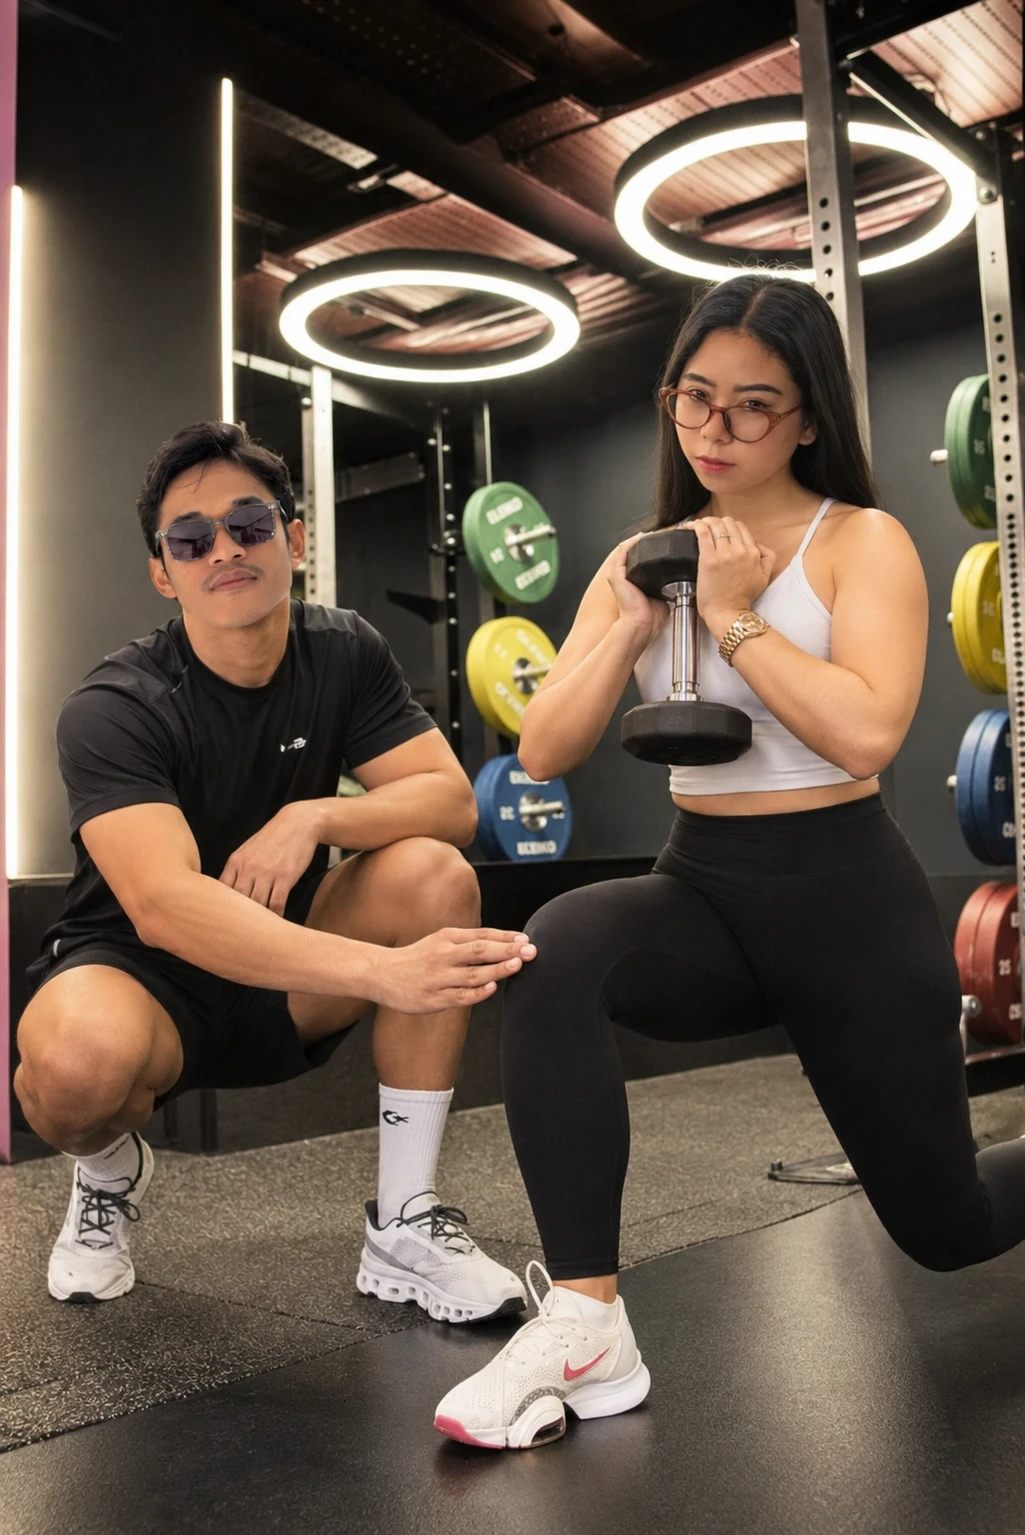
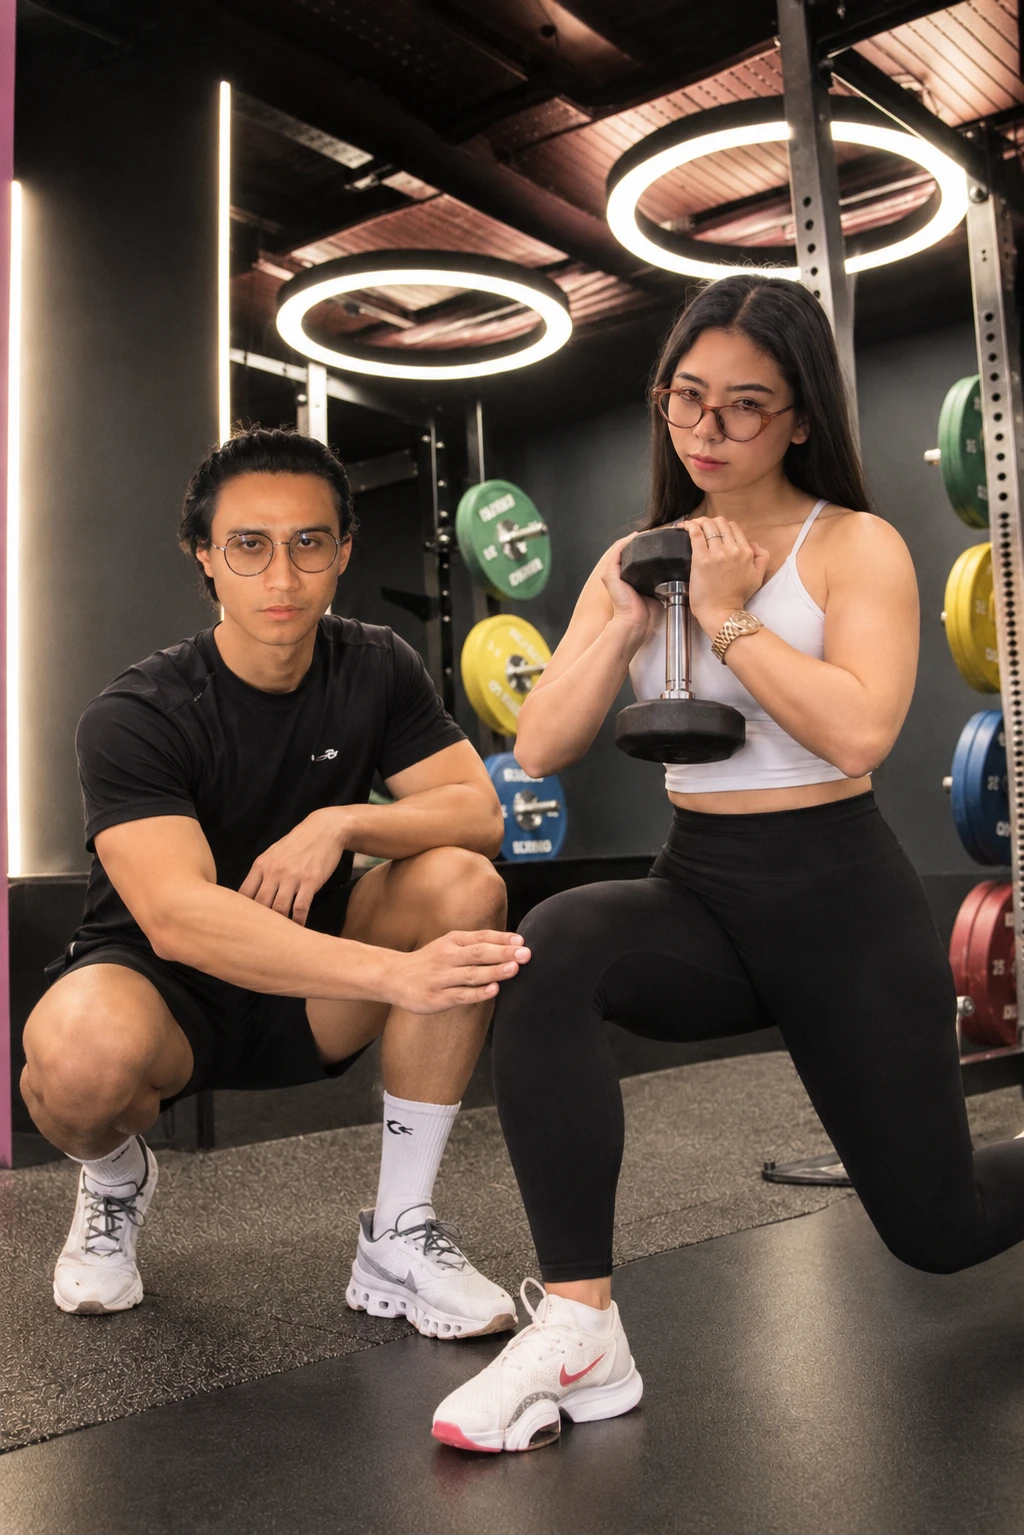
Two chasing cyclists on cycling page, new cycling and gym photos

diff --git a/sepedaan.html b/sepedaan.html
@@ -61,9 +61,9 @@
           <a class="sp-back" href="index.html#games">← Semua olahraga</a>
         </div>
       </div>
-      <div class="sd-photo"><figure class="shot" style="--pos:55% 30%"><img data-hero-img src="assets/images/sepedaan.webp" alt="Pesepeda tersenyum di jalur sepeda tepi pantai" fetchpriority="high"></figure></div>
+      <div class="sd-photo"><figure class="shot" style="--pos:53% 45%"><img data-hero-img src="assets/images/sepedaan.webp" alt="Pesepeda tersenyum di depan dan temannya bersepeda di belakang" fetchpriority="high"></figure></div>
       <div class="sd-road" aria-hidden="true"></div>
-      <div class="sd-bike" aria-hidden="true"><svg viewBox="0 0 170 100" aria-hidden="true"><g fill="none" stroke="#06323d" stroke-width="4" stroke-linecap="round" stroke-linejoin="round"><circle cx="35" cy="68" r="26"/><circle cx="135" cy="68" r="26"/><path d="M35 68 L68 68 L92 34 L118 34 L135 68 M68 68 L52 34 M52 34 L92 34 M92 34 L68 68"/><path d="M46 34 H60 M108 26 L118 34"/></g><g class="wheel" stroke="#06323d" stroke-width="2"><line x1="9" y1="68" x2="61" y2="68"/><line x1="35" y1="42" x2="35" y2="94"/></g><g class="wheel" stroke="#06323d" stroke-width="2"><line x1="109" y1="68" x2="161" y2="68"/><line x1="135" y1="42" x2="135" y2="94"/></g><circle cx="86" cy="12" r="9" fill="#06323d"/><path d="M86 22 L78 44 L92 34" stroke="#0a7f98" stroke-width="7" fill="none" stroke-linecap="round" stroke-linejoin="round"/></svg></div>
+      <div class="sd-pack" aria-hidden="true"><div class="sd-rider sd-rider--chase"><svg viewBox="0 0 170 100" aria-hidden="true"><g fill="none" stroke="#06323d" stroke-width="4" stroke-linecap="round" stroke-linejoin="round"><circle cx="35" cy="68" r="26"/><circle cx="135" cy="68" r="26"/><path d="M35 68 L68 68 L92 34 L118 34 L135 68 M68 68 L52 34 M52 34 L92 34 M92 34 L68 68"/><path d="M46 34 H60 M108 26 L118 34"/></g><g class="wheel" stroke="#06323d" stroke-width="2"><line x1="9" y1="68" x2="61" y2="68"/><line x1="35" y1="42" x2="35" y2="94"/></g><g class="wheel" stroke="#06323d" stroke-width="2"><line x1="109" y1="68" x2="161" y2="68"/><line x1="135" y1="42" x2="135" y2="94"/></g><image href="assets/images/wajah-a.webp" x="58" y="-24" width="56" height="56" preserveAspectRatio="xMidYMid meet"/><path d="M86 22 L78 44 L92 34" stroke="#0a7f98" stroke-width="7" fill="none" stroke-linecap="round" stroke-linejoin="round"/></svg></div><div class="sd-rider sd-rider--lead"><svg viewBox="0 0 170 100" aria-hidden="true"><g fill="none" stroke="#06323d" stroke-width="4" stroke-linecap="round" stroke-linejoin="round"><circle cx="35" cy="68" r="26"/><circle cx="135" cy="68" r="26"/><path d="M35 68 L68 68 L92 34 L118 34 L135 68 M68 68 L52 34 M52 34 L92 34 M92 34 L68 68"/><path d="M46 34 H60 M108 26 L118 34"/></g><g class="wheel" stroke="#06323d" stroke-width="2"><line x1="9" y1="68" x2="61" y2="68"/><line x1="35" y1="42" x2="35" y2="94"/></g><g class="wheel" stroke="#06323d" stroke-width="2"><line x1="109" y1="68" x2="161" y2="68"/><line x1="135" y1="42" x2="135" y2="94"/></g><image href="assets/images/wajah-b.webp" x="58" y="-24" width="56" height="56" preserveAspectRatio="xMidYMid meet"/><path d="M86 22 L78 44 L92 34" stroke="#0a7f98" stroke-width="7" fill="none" stroke-linecap="round" stroke-linejoin="round"/></svg></div></div>
     </section>
 
     <section class="sp-sec">
@@ -86,10 +86,10 @@
       <span class="sp-eyebrow" data-reveal>Kegiatan kita</span>
       <h2 class="sp-h2" data-reveal>Foto-foto gowes<em style="color:#0a7f98;font-style:normal">.</em></h2>
       <div class="sd-bubbles">
-        <div class="sd-bubble"><figure class="shot" style="--pos:55% 30%;--zoom:1.15"><img src="assets/images/sepedaan.webp" alt="Kegiatan ED Club" loading="lazy"></figure></div>
-        <div class="sd-bubble"><figure class="shot" style="--pos:18% 62%;--zoom:1.9"><img src="assets/images/sepedaan.webp" alt="Kegiatan ED Club" loading="lazy"></figure></div>
-        <div class="sd-bubble"><figure class="shot" style="--pos:82% 74%;--zoom:1.7"><img src="assets/images/sepedaan.webp" alt="Kegiatan ED Club" loading="lazy"></figure></div>
-        <div class="sd-bubble"><figure class="shot" style="--pos:50% 18%;--zoom:1.8"><img src="assets/images/sepedaan.webp" alt="Kegiatan ED Club" loading="lazy"></figure></div>
+        <div class="sd-bubble"><figure class="shot" style="--pos:45% 45%;--zoom:1.05"><img src="assets/images/sepedaan.webp" alt="Kegiatan ED Club" loading="lazy"></figure></div>
+        <div class="sd-bubble"><figure class="shot" style="--pos:12% 60%;--zoom:2.1"><img src="assets/images/sepedaan.webp" alt="Kegiatan ED Club" loading="lazy"></figure></div>
+        <div class="sd-bubble"><figure class="shot" style="--pos:98% 90%;--zoom:1.7"><img src="assets/images/sepedaan.webp" alt="Kegiatan ED Club" loading="lazy"></figure></div>
+        <div class="sd-bubble"><figure class="shot" style="--pos:62% 30%;--zoom:1.8"><img src="assets/images/sepedaan.webp" alt="Kegiatan ED Club" loading="lazy"></figure></div>
       </div>
     </section>
 

diff --git a/sport.css b/sport.css
@@ -234,7 +234,7 @@ body.sp-sepeda { --bg: #d9f2f7; --fg: #06323d; --acc: #ffc21f; --on-acc: #06323d
 .sp-sepeda .sp-eyebrow, .sp-sepeda .sp-lead { color: var(--fg); }
 .sp-sepeda .sp-back:hover { color: #0a7f98; }
 .sd-hero { position: relative; min-height: 100svh; overflow: hidden; display: grid; grid-template-columns: 1.1fr .9fr; align-items: center; gap: 24px; padding: 120px var(--gutter) 190px; background: linear-gradient(180deg, #8fdcf0 0%, #d9f2f7 70%); }
-.sd-hero > div:not(.sd-road):not(.sd-bike) { position: relative; z-index: 2; }
+.sd-hero > div:not(.sd-road):not(.sd-pack) { position: relative; z-index: 2; }
 .sd-cloud { z-index: 1; position: absolute; height: 54px; border-radius: 60px; background: #fff; opacity: .85; animation: sd-cloud 40s linear infinite; }
 .sd-cloud::before, .sd-cloud::after { content: ''; position: absolute; background: #fff; border-radius: 50%; }
 .sd-cloud::before { width: 60px; height: 60px; left: 18%; top: -26px; } .sd-cloud::after { width: 44px; height: 44px; left: 52%; top: -18px; }
@@ -252,10 +252,21 @@ body:not(.is-loading) .sd-photo { opacity: 1; transform: none; }
 .sd-road { position: absolute; left: 0; right: 0; bottom: 0; height: 120px; background: #1d3c46; }
 .sd-road::before { content: ''; position: absolute; left: 0; right: 0; top: 50%; border-top: 5px dashed rgba(255,255,255,.7); animation: sd-dash 1s linear infinite; }
 @keyframes sd-dash { to { transform: translateX(-60px); } }
-.sd-bike { position: absolute; bottom: 92px; left: 0; width: 170px; animation: sd-ride 14s linear infinite; }
-.sd-bike svg { width: 100%; height: auto; overflow: visible; }
-.sd-bike .wheel { transform-box: fill-box; transform-origin: center; animation: sd-spin .8s linear infinite; }
-@keyframes sd-ride { from { transform: translateX(-220px); } to { transform: translateX(calc(100vw + 40px)); } }
+.sd-pack { position: absolute; bottom: 92px; left: 0; width: 0; height: 0; z-index: 3; animation: sd-ride 17s linear infinite; }
+.sd-rider { position: absolute; bottom: 0; width: 250px; }
+.sd-rider svg { display: block; width: 100%; height: auto; overflow: visible; }
+.sd-rider .wheel { transform-box: fill-box; transform-origin: center; animation: sd-spin .8s linear infinite; }
+.sd-rider--lead { left: 0; animation: sd-bob .8s ease-in-out infinite; }
+.sd-rider--chase { left: -340px; animation: sd-chase 6s ease-in-out infinite; }
+.sd-rider--chase::before {
+  content: ''; position: absolute; left: -46px; top: 36%; width: 40px; height: 22px;
+  background: repeating-linear-gradient(180deg, rgba(6,50,61,.55) 0 3px, transparent 3px 9px); border-radius: 3px;
+  animation: sd-lines .35s linear infinite;
+}
+@keyframes sd-ride { from { transform: translateX(-640px); } to { transform: translateX(calc(100vw + 60px)); } }
+@keyframes sd-chase { 0%, 100% { transform: translateX(0); } 50% { transform: translateX(125px); } }
+@keyframes sd-bob { 0%, 100% { transform: translateY(0); } 50% { transform: translateY(-5px); } }
+@keyframes sd-lines { from { opacity: .9; transform: translateX(0); } to { opacity: 0; transform: translateX(-16px); } }
 .sd-styles { display: flex; gap: 18px; overflow-x: auto; scroll-snap-type: x mandatory; scrollbar-width: none; margin-top: 32px; padding: 6px 2px 14px; }
 .sd-styles::-webkit-scrollbar { display: none; }
 .sd-style { flex: none; width: clamp(260px, 30vw, 380px); scroll-snap-align: start; padding: 34px; border-radius: 30px; background: var(--card); box-shadow: 0 14px 40px rgba(6,50,61,.12); transition: transform .5s var(--ease); }
@@ -448,3 +459,5 @@ body:not(.is-loading) .rn-team { transform: none; opacity: 1; animation: rn-bob 
 .sport--cut::after { z-index: 1; background: linear-gradient(0deg, rgba(3,32,56,.85), transparent 42%); }
 .sport--cut h3, .sport--cut p { position: relative; z-index: 2; }
 .sport--cut .tag--glass { z-index: 2; }
+
+@media (max-width: 900px) { .sd-rider { width: 190px; } .sd-rider--chase { left: -260px; } .sd-pack { bottom: 82px; } @keyframes sd-chase { 0%, 100% { transform: translateX(0); } 50% { transform: translateX(80px); } } }

diff --git a/gym.html b/gym.html
@@ -89,9 +89,9 @@
       <h2 class="sp-h2" data-reveal>Sesi latihan<em style="color:var(--acc);font-style:normal">.</em></h2>
       <div class="gm-grid" data-reveal>
         <figure class="shot" style="--pos:50% 30%;--zoom:1"><img src="assets/images/gym.webp" alt="Latihan berdua" loading="lazy"><figcaption>Latihan berdua</figcaption></figure>
-        <figure class="shot" style="--pos:30% 52%;--zoom:1.8"><img src="assets/images/gym.webp" alt="Saling jaga" loading="lazy"><figcaption>Saling jaga</figcaption></figure>
+        <figure class="shot" style="--pos:22% 38%;--zoom:1.8"><img src="assets/images/gym.webp" alt="Saling jaga" loading="lazy"><figcaption>Saling jaga</figcaption></figure>
         <figure class="shot" style="--pos:72% 55%;--zoom:1.8"><img src="assets/images/gym.webp" alt="Dumbbell" loading="lazy"><figcaption>Dumbbell</figcaption></figure>
-        <figure class="shot" style="--pos:85% 22%;--zoom:1.9"><img src="assets/images/gym.webp" alt="Pelat warna-warni" loading="lazy"><figcaption>Pelat warna-warni</figcaption></figure>
+        <figure class="shot" style="--pos:96% 42%;--zoom:2.2"><img src="assets/images/gym.webp" alt="Pelat warna-warni" loading="lazy"><figcaption>Pelat warna-warni</figcaption></figure>
         <figure class="shot" style="--pos:55% 95%;--zoom:1.7"><img src="assets/images/gym.webp" alt="Sepatu siap" loading="lazy"><figcaption>Sepatu siap</figcaption></figure>
       </div>
     </section>

diff --git a/index.html b/index.html
@@ -177,7 +177,7 @@
           </article>
           <article class="sport" data-name="sepedaan" style="--c1:#5ad0e6;--c2:#0b3a4a">
             <a class="sport__link" href="sepedaan.html" aria-label="Lihat halaman Sepedaan"></a>
-            <img src="assets/images/sepedaan.webp" alt="Pesepeda tersenyum di jalur sepeda tepi pantai" style="object-position:55% 50%" loading="lazy">
+            <img src="assets/images/sepedaan.webp" alt="Pesepeda tersenyum di depan, temannya bersepeda di belakang di jalur tepi pantai" style="object-position:41% 50%" loading="lazy">
             <span class="sport__no">06</span>
             <span class="tag tag--glass">Outdoor</span>
             <h3>Sepedaan</h3>
